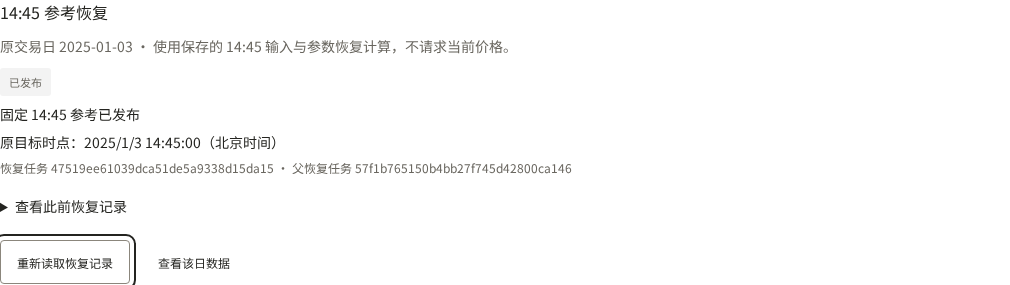
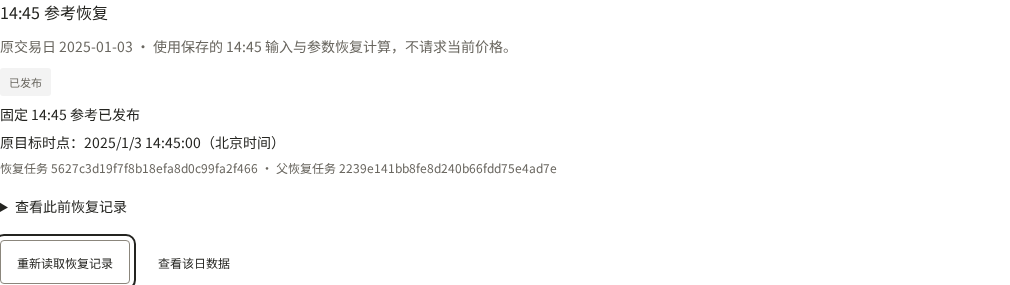
docs(rotation): record R06 review and verified recovery acceptance

Changed region(s): [[0.0307, 0.5614, 0.5832, 0.6175]]

diff --git a/docs/deployments/r06-rotation-recovery.md b/docs/deployments/r06-rotation-recovery.md
@@ -1,12 +1,14 @@
-# R06：按原任务恢复轮动发布（审查中）
+# R06：按原任务恢复轮动发布
 
-对应 #40，依赖 #38 和 #21。当前分支基于 PR #48，尚未合并、部署或操作生产数据库。原始工作区未修改。
+对应 #40，依赖 #38 和 #21。当前分支基于 PR #48，实现与审查完成，尚未合并、部署或操作生产数据库。原始工作区未修改。
 
 ## 行为
 
 管理页在参考采集记录和相关 ETF 批次中展示原日期、阶段和恢复记录。浏览器只提交原采集日期或已保存任务 ID，不接收日期、对象、报价覆盖参数。
 
 参考恢复使用冻结的原始输入及参数，成功参考不可替换。缺少原时点输入时明确“原时点数据无法补取”。收盘恢复通过同一 ETFService 重试失败对象和未完成步骤，保存实际重试批次 ID；同步完成后重新计算、发布原日期的四标的整组结果。三只成功、一只失败时展示 3/4，尚未完整同步时不发布新结果。重试再失败可由失败子任务继续，保留父子关系。
+
+恢复记录按原任务查询，不受全局最近 50 条记录限制；每个原任务保留最近 50 次尝试供查看，明确父子任务标识。对正在执行的恢复再次请求重试时，在锁定采集记录之前立即拒绝，避免与发布流程形成反向锁等待。
 
 请求接受、同步中、同步完成、计算中和发布完成是后端真实阶段。客户端关闭不取消后台工作；服务中断后沿用原批次继续。发布事务检查执行权及数据版本，旧执行者不能发布或改写新任务状态。管理代理要求 Access、同源及 CSRF，只转发严格允许的恢复路径，服务密钥不进入浏览器。
 
@@ -15,10 +17,11 @@
 ## 当前验证证据
 
 - 7 项真实 HTTP / 隔离 MySQL 恢复测试：冻结参考恢复、原始缺失不可补取、参考失败父子重试、失权旧执行者拒绝发布、收盘只补失败因子、服务重建续跑同一批次、失败子批次再次恢复。
-- 整个轮动模块 race 回归通过；新增失败阶段区分后，7 项恢复测试再次通过。最终完整回归及双轴审查仍待完成。
-- web race 测试和后端构建通过。
+- 7 项恢复测试还覆盖 51 条无关记录之后的原任务读取，以及发布被暂停时立即拒绝运行中重试。
+- syncer、web、feishubot 全量 race 测试及后端构建通过；数据库测试使用五个隔离测试库。
 - 前端构建（含设计检查）通过。
-- 8 项真实浏览器验收通过：管理写入安全、管理恢复至发布结果、1440/820/390/320px 和键盘、读取失败和登录失效、原交易日结果链接。
+- 9 项恢复浏览器验收通过：管理写入安全、51 条无关记录后的原失败任务恢复至发布结果、1440/820/390/320px 和键盘、读取失败与登录失效、原交易日结果链接、加载超时后重新读取。
+- 受影响浏览器回归另通过：参考采集 9 项、ETF 批次 9 项、历史选日 10 项、通用页面 22 项、设计 5 项；合计 64 项。最终原任务查询修复后，恢复 9 项重新通过。
 - 实际检查桌面和 320px 截图；长任务编号换行，键盘焦点可见。截图位于 `docs/design/rotation-recovery/`，**全部为隔离测试行情，不是真实市场预览**。
 
 ## 可复现预览与验收
@@ -36,9 +39,20 @@ npx playwright test --config playwright.recovery.config.ts
 
 测试启动 `127.0.0.1:18090` 上的真实恢复/同步 API，以及 `127.0.0.1:18081` 上的真实 web 应用。临时签名登录凭证由测试生成，浏览器通过实际验证器访问 `/admin/data` 与 `/strategies/four-etf-rotation`。只在测试二进制中替换行情源、时间及临时数据库故障，生产不带测试入口。测试结束自动停止服务，不将该地址描述为长期在线预览。
 
-## 未完成
+## 双轴审查
 
-- 完整受影响浏览器/设计回归、加载/超时进一步检查、双轴代码审查和独立 PR。
+### Standards
+
+复核通过。`ed80dec` 将最近 50 条限制应用于原任务范围，旧失败任务可直接显示最新尝试并继续重试；活跃父任务在获取采集锁前返回 409，消除了所述锁顺序冲突。未发现新增的明确规范违反或值得报告的 Fowler smell。评审仅只读检查代码和相关断言，实际测试由主任务执行。
+
+### Spec
+
+复核通过，两项问题均已解决，未发现新增 Spec 问题。父恢复任务未失败时，在获取采集锁前返回 409，消除了正常运行中的重试与发布之间的反向锁等待；失败父任务的子重试与去重语义保留。恢复列表先按阶段和原任务筛选，再取最近 50 条，无关任务不再挤掉当前任务记录；生产路由、受保护代理及前端轮询均已接入。新测试覆盖发布暂停时及时拒绝重试、旧执行者不可发布，以及 51 条无关记录下仍可读取原任务。
+
+最终剩余发现：Standards 0 项，Spec 0 项；两轴均无未解决问题。
+
+## 后续工作
+
 - R07 历史修订传播仍未完成。
 - 原时点缺失没有已验证的历史补取能力，继续明确缺失。
 - 全部工单完成后的生产发布和 `candlea.cn` 验证尚未执行。
